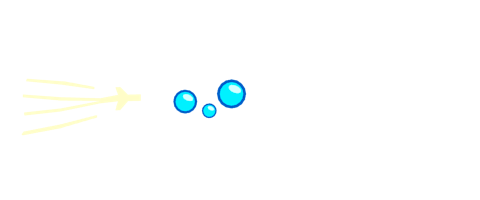
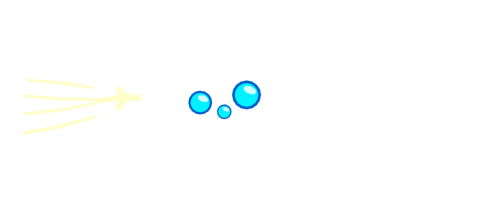
Explainer animatie update

Changed region(s): [[0.3438, 0.39, 0.5625, 0.6]]

diff --git a/css/style.css b/css/style.css
@@ -157,7 +157,10 @@ canvas {
     width: 60vh;
     height: 25vh;
     margin: auto;
+    overflow: hidden;
     margin-top: 5vh;
+    transform: scale(1);
+    transition: transform .7s cubic-bezier(.07, 1.02, .57, 1.36);
 }
 
 #explainerImg img {
@@ -169,27 +172,52 @@ canvas {
     transition: all 1s ease-out;
 }
 
-#explainerImg img:first-child {
-    transform: scale(1);
-}
-#explainerImg img:last-child {
+#explainerImg img:nth-child(2), #explainerImg img:nth-child(3) {
     clip-path: inset(100% 100% 100% 100%);
 }
 
-#explainerImg.speed img:last-child {
+#explainerImg img:nth-child(4), #explainerImg img:nth-child(5) {
+    transform: translateY(-200%);
+    clip-path: inset(0% 0% 0% 0%);
+    transition: transform .4s ease-out, clip-path 1s 1s ease-in-out;
+}
+
+#explainerImg.speed img:nth-child(2), #explainerImg.speed img:nth-child(3) {
     clip-path: inset(0% 76% 0% 0%);
 }
 
-#explainerImg.size img:first-child {
+#explainerImg.size {
     transform: scale(1.2);
 }
 
-#explainerImg.temperature img:last-child {
-    clip-path: inset(64% 17% 24% 57%);
+#explainerImg.temperature img:nth-child(4), #explainerImg.temperature img:nth-child(5) {
+    transform: translateY(0%);
 }
 
-#explainerImg.depth img:last-child {
-    clip-path: inset(38% 42% 37% 37%);
+#explainerImg.temperature img:nth-child(5) {
+    clip-path: inset(30% 0% 0%);
+}
+
+#explainerImg.depth img:nth-child(2), #explainerImg.depth img:nth-child(3) {
+    clip-path: inset(38% 43% 37% 37%);
+}
+
+#explainerImg.depth img:nth-child(3) {
+    animation-name: bubble;
+    animation-duration: 2s;
+    animation-timing-function: linear;
+    animation-iteration-count: infinite;
+    animation-direction: alternate;
+}
+
+@keyframes bubble {
+    0% {
+        transform: translateY(2px);
+    }
+
+    100% {
+        transform: translateY(-2px);
+    }
 }
 
 /* Menu buttons */

diff --git a/index.html b/index.html
@@ -88,7 +88,10 @@
 			<div class="overlay-content">
 				<div id="explainerImg">
 					<img src="assets/img/player_single.png">
-					<img src="assets/img/player_insides.png">
+					<img src="assets/img/player_inside.png">
+					<img src="assets/img/player_upgrades.png">
+					<img src="assets/img/player_thermometer.png">
+					<img src="assets/img/player_thermometer_bar.png">
 				</div>
 				<p id="explainerText"></p>
 				<a id="explainerCont" class="btn">Verder</a>
